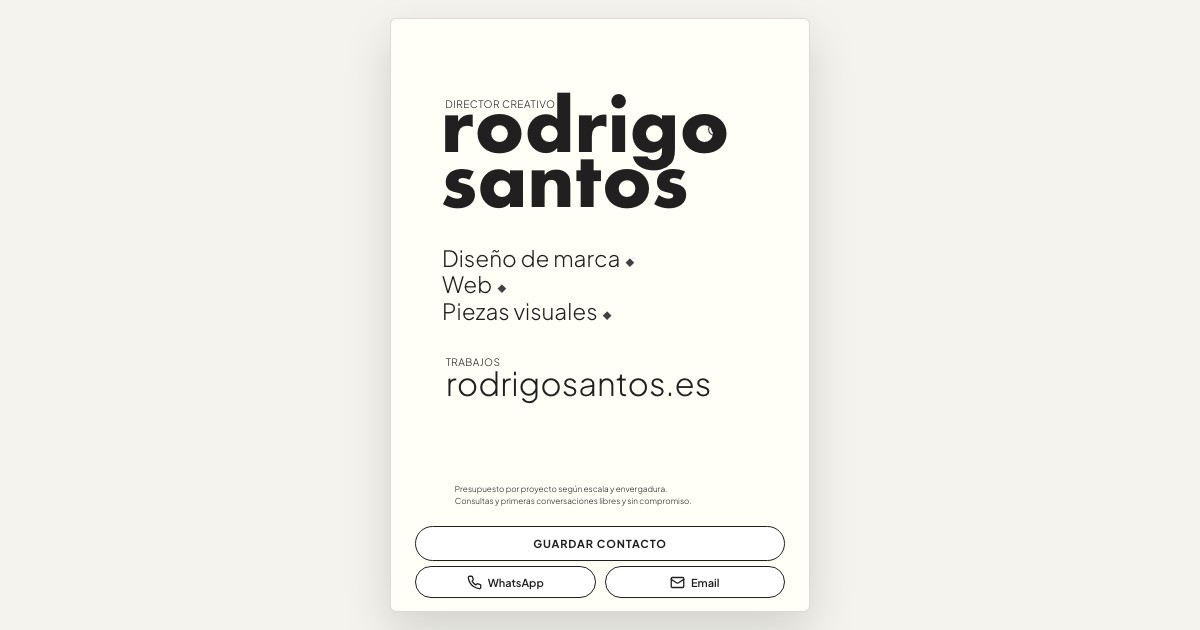
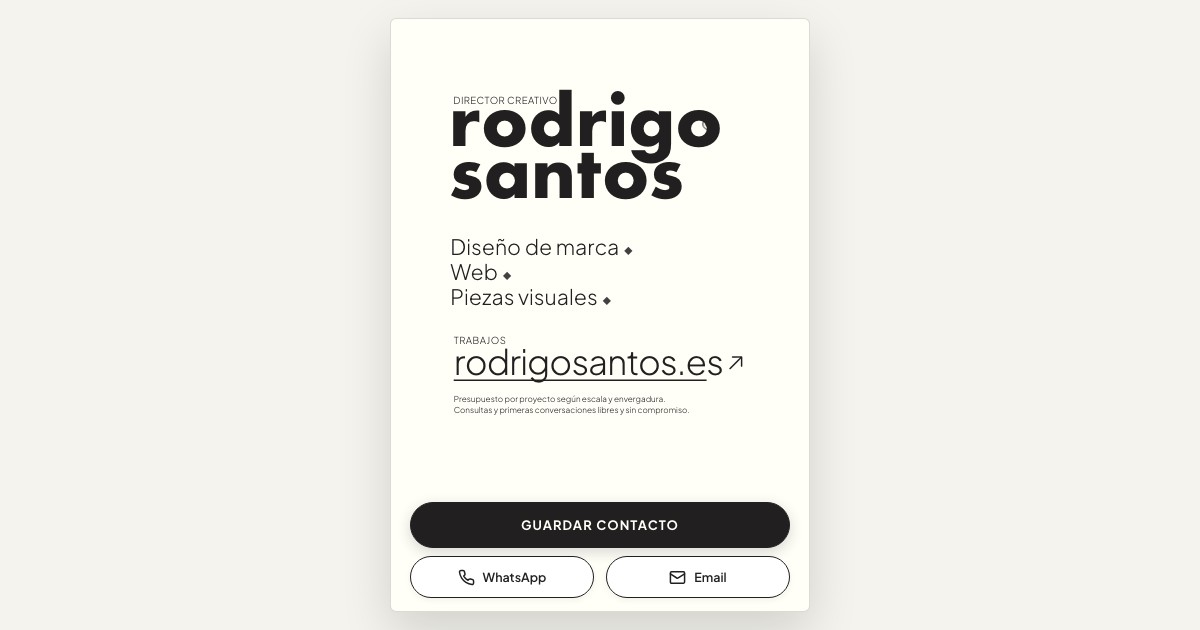
feat(vcard): prominent clickable domain link, glued budget note, black primary button and larger touch actions

Changed region(s): [[0.3392, 0.754, 0.6783, 0.9349], [0.37, 0.3619, 0.6167, 0.6635], [0.37, 0.1508, 0.6167, 0.3317]]

diff --git a/src/components/VirtualCard/VirtualCard.jsx b/src/components/VirtualCard/VirtualCard.jsx
@@ -149,31 +149,41 @@ END:VCARD`
               <tspan x="0" y="26">{t.services[2].text} <tspan className="vcard-cls-diamond">◆</tspan></tspan>
             </text>
 
-            {/* 5. TRABAJOS (exact translate 2.38 165.6, font-size 5px) */}
+            {/* 5. TRABAJOS (translate 2.38 163, font-size 5px) */}
             <text
               className="vcard-cls-sans vcard-cls-fill"
-              style={{ fontSize: '5px', letterSpacing: '0.04em' }}
-              transform="translate(2.38 165.6)"
+              style={{ fontSize: '5px', letterSpacing: '0.05em' }}
+              transform="translate(2.38 163)"
             >
               {t.workLabel}
             </text>
 
-            {/* 6. rodrigosantos.es domain link (exact translate 2.38 180.38, font-size 16px) */}
+            {/* 6. rodrigosantos.es domain link — bigger, clearly clickable with arrow and underline */}
             <a href="/" className="vcard-domain-link" aria-label="rodrigosantos.es">
               <text
                 className="vcard-cls-sans vcard-cls-fill vcard-domain-text"
-                style={{ fontSize: '16px' }}
-                transform="translate(2.38 180.38)"
+                style={{ fontSize: '18px', letterSpacing: '-0.025em' }}
+                transform="translate(2.38 179)"
               >
                 {t.workDomain}
+                <tspan className="vcard-link-arrow" dx="2" dy="-2" style={{ fontSize: '12px' }}>↗</tspan>
               </text>
+              <line
+                x1="2.38"
+                y1="182"
+                x2="133"
+                y2="182"
+                stroke="#221F20"
+                strokeWidth="0.8"
+                className="vcard-domain-line"
+              />
             </a>
 
-            {/* 7. Presupuesto note (exact translate 6.86 227.36, font-size 4px) */}
+            {/* 7. Presupuesto note — pegada justo debajo del enlace */}
             <text
               className="vcard-cls-sans vcard-cls-fill"
-              style={{ fontSize: '4px' }}
-              transform="translate(6.86 227.36)"
+              style={{ fontSize: '4.2px' }}
+              transform="translate(2.38 193)"
             >
               <tspan x="0" y="0">{t.budgetText[0]}</tspan>
               <tspan x="0" y="6">{t.budgetText[1]}</tspan>
@@ -181,7 +191,7 @@ END:VCARD`
           </svg>
         </div>
 
-        {/* 8. White Capsule Action Buttons at Bottom */}
+        {/* 8. Action Buttons at Bottom */}
         <footer className="vcard-actions-block" aria-label="Contacto">
           <button
             type="button"
@@ -201,8 +211,8 @@ END:VCARD`
               id="vcard-btn-whatsapp"
             >
               <svg
-                width="15"
-                height="15"
+                width="17"
+                height="17"
                 viewBox="0 0 24 24"
                 fill="none"
                 stroke="currentColor"
@@ -222,8 +232,8 @@ END:VCARD`
               id="vcard-btn-email"
             >
               <svg
-                width="15"
-                height="15"
+                width="17"
+                height="17"
                 viewBox="0 0 24 24"
                 fill="none"
                 stroke="currentColor"

diff --git a/src/components/VirtualCard/VirtualCard.css b/src/components/VirtualCard/VirtualCard.css
@@ -124,8 +124,17 @@
   transition: opacity 0.2s ease;
 }
 
-.vcard-domain-link:hover .vcard-domain-text {
+.vcard-domain-line {
+  transition: opacity 0.2s ease, stroke-width 0.2s ease;
+}
+
+.vcard-domain-link:hover .vcard-domain-text,
+.vcard-domain-link:hover .vcard-domain-line {
   opacity: 0.65;
+}
+
+.vcard-domain-link:active {
+  opacity: 0.8;
 }
 
 /* Black fine eye circle border stroke */
@@ -167,15 +176,15 @@
   will-change: transform;
 }
 
-/* ---------- Action Buttons in White at Bottom ---------- */
+/* ---------- Action Buttons at Bottom (Black Primary & Larger) ---------- */
 .vcard-actions-block {
   width: 100%;
-  max-width: 370px;
+  max-width: 380px;
   flex-shrink: 0;
   display: flex;
   flex-direction: column;
-  gap: clamp(5px, 0.9vh, 8px);
-  margin-top: 6px;
+  gap: clamp(8px, 1.3vh, 12px);
+  margin-top: 8px;
 }
 
 .vcard-action-btn {
@@ -183,9 +192,6 @@
   display: flex;
   align-items: center;
   justify-content: center;
-  background-color: #FFFFFF;
-  color: #221F20;
-  border: 1.4px solid #221F20;
   border-radius: 999px;
   cursor: pointer;
   text-decoration: none;
@@ -199,45 +205,50 @@
   transform: scale(0.985);
 }
 
-/* Primary Button in White */
+/* Primary Button in Black (Guardar Contacto) */
 .vcard-action-btn--primary {
   width: 100%;
-  height: clamp(35px, 4.4vh, 42px);
-  font-size: clamp(11px, 1.35vh, 12.5px);
+  height: clamp(46px, 5.8vh, 52px);
+  background-color: #221F20;
+  color: #FFFEF7;
+  border: 1.5px solid #221F20;
+  font-size: clamp(13px, 1.6vh, 14.5px);
   font-weight: 700;
   letter-spacing: 0.08em;
   text-transform: uppercase;
-  box-shadow: 0 1px 3px rgba(34, 31, 32, 0.05);
+  box-shadow: 0 4px 14px rgba(34, 31, 32, 0.18);
 }
 
 .vcard-action-btn--primary:hover {
-  background-color: #221F20;
-  color: #FFFEF7;
+  background-color: #000000;
+  border-color: #000000;
   transform: translateY(-1.5px);
-  box-shadow: 0 4px 14px rgba(34, 31, 32, 0.15);
+  box-shadow: 0 6px 20px rgba(34, 31, 32, 0.26);
 }
 
 /* Secondary Buttons Grid */
 .vcard-action-grid {
   display: grid;
   grid-template-columns: 1fr 1fr;
-  gap: clamp(6px, 1.8vw, 9px);
+  gap: clamp(8px, 2.2vw, 12px);
   width: 100%;
 }
 
 .vcard-action-btn--secondary {
-  height: clamp(32px, 4vh, 38px);
-  font-size: clamp(11px, 1.35vh, 12.5px);
+  height: clamp(42px, 5.2vh, 48px);
+  background-color: #FFFFFF;
+  color: #221F20;
+  border: 1.5px solid #221F20;
+  font-size: clamp(12.5px, 1.5vh, 14px);
   font-weight: 600;
-  gap: 6px;
-  box-shadow: 0 1px 3px rgba(34, 31, 32, 0.04);
+  gap: 8px;
+  box-shadow: 0 2px 6px rgba(34, 31, 32, 0.06);
 }
 
 .vcard-action-btn--secondary:hover {
   background-color: #F8F7F0;
-  border-color: #221F20;
   transform: translateY(-1.5px);
-  box-shadow: 0 3px 10px rgba(34, 31, 32, 0.08);
+  box-shadow: 0 4px 12px rgba(34, 31, 32, 0.12);
 }
 
 .vcard-action-btn--secondary svg {
